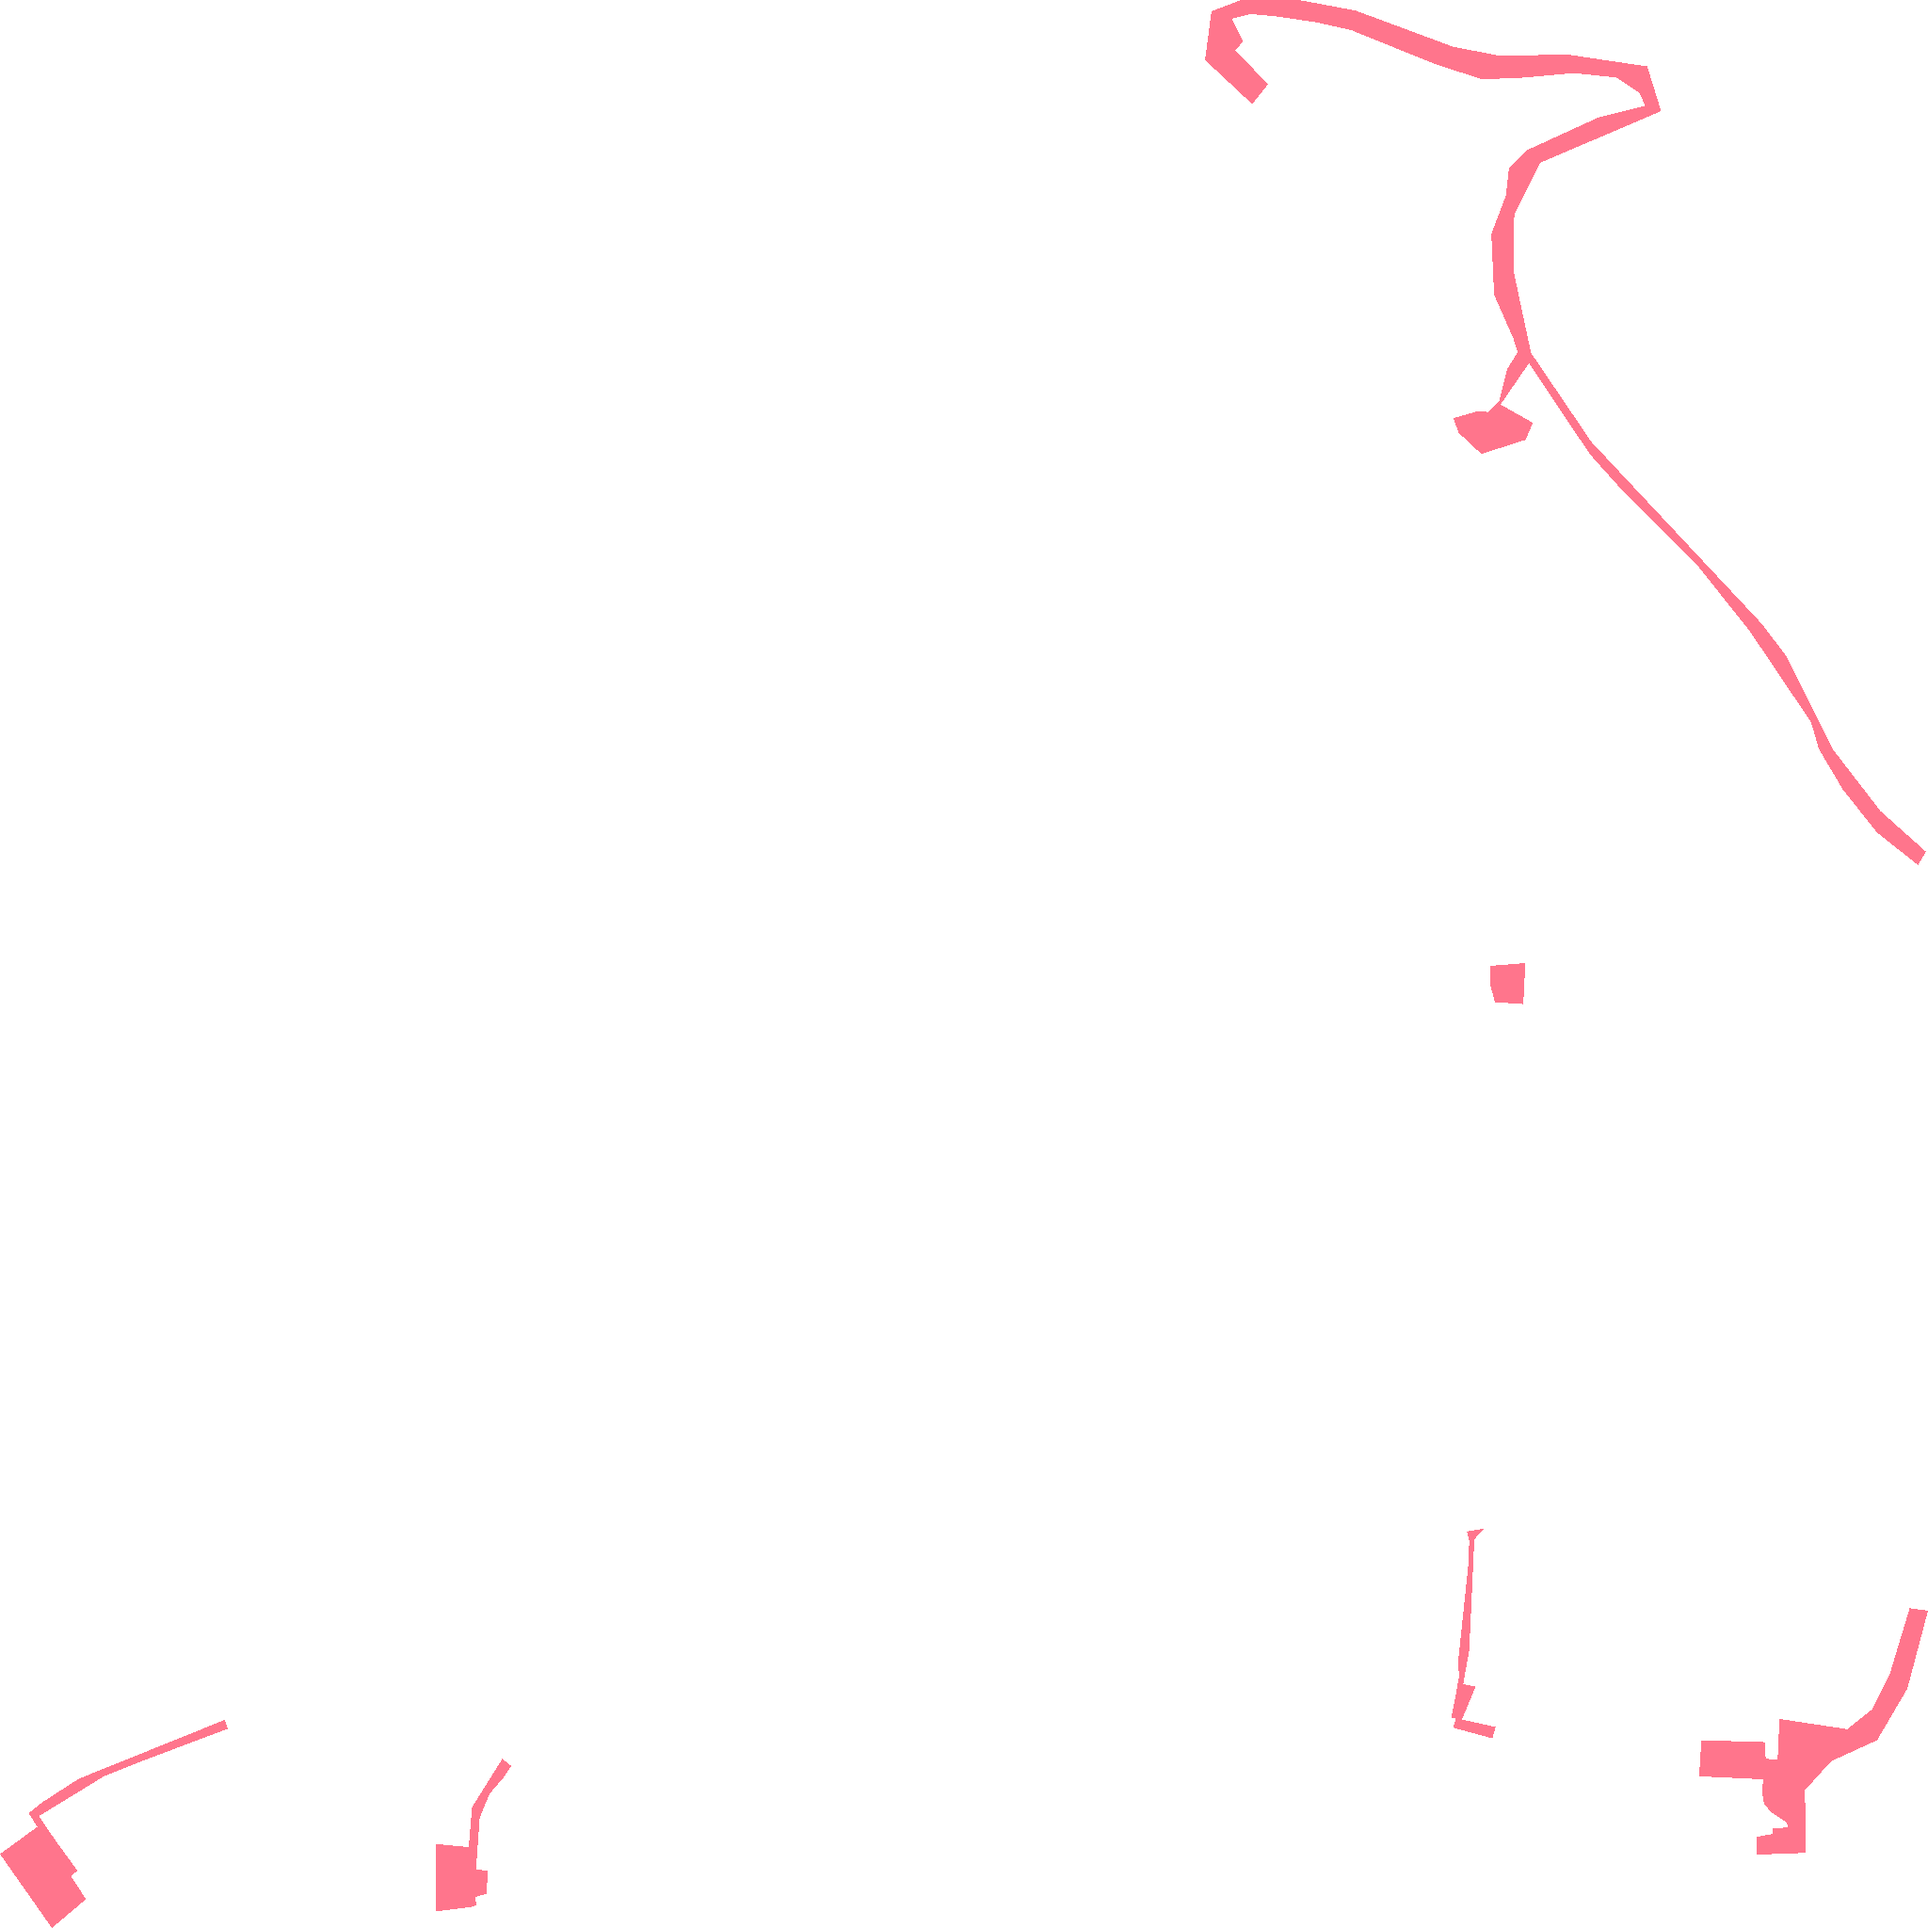
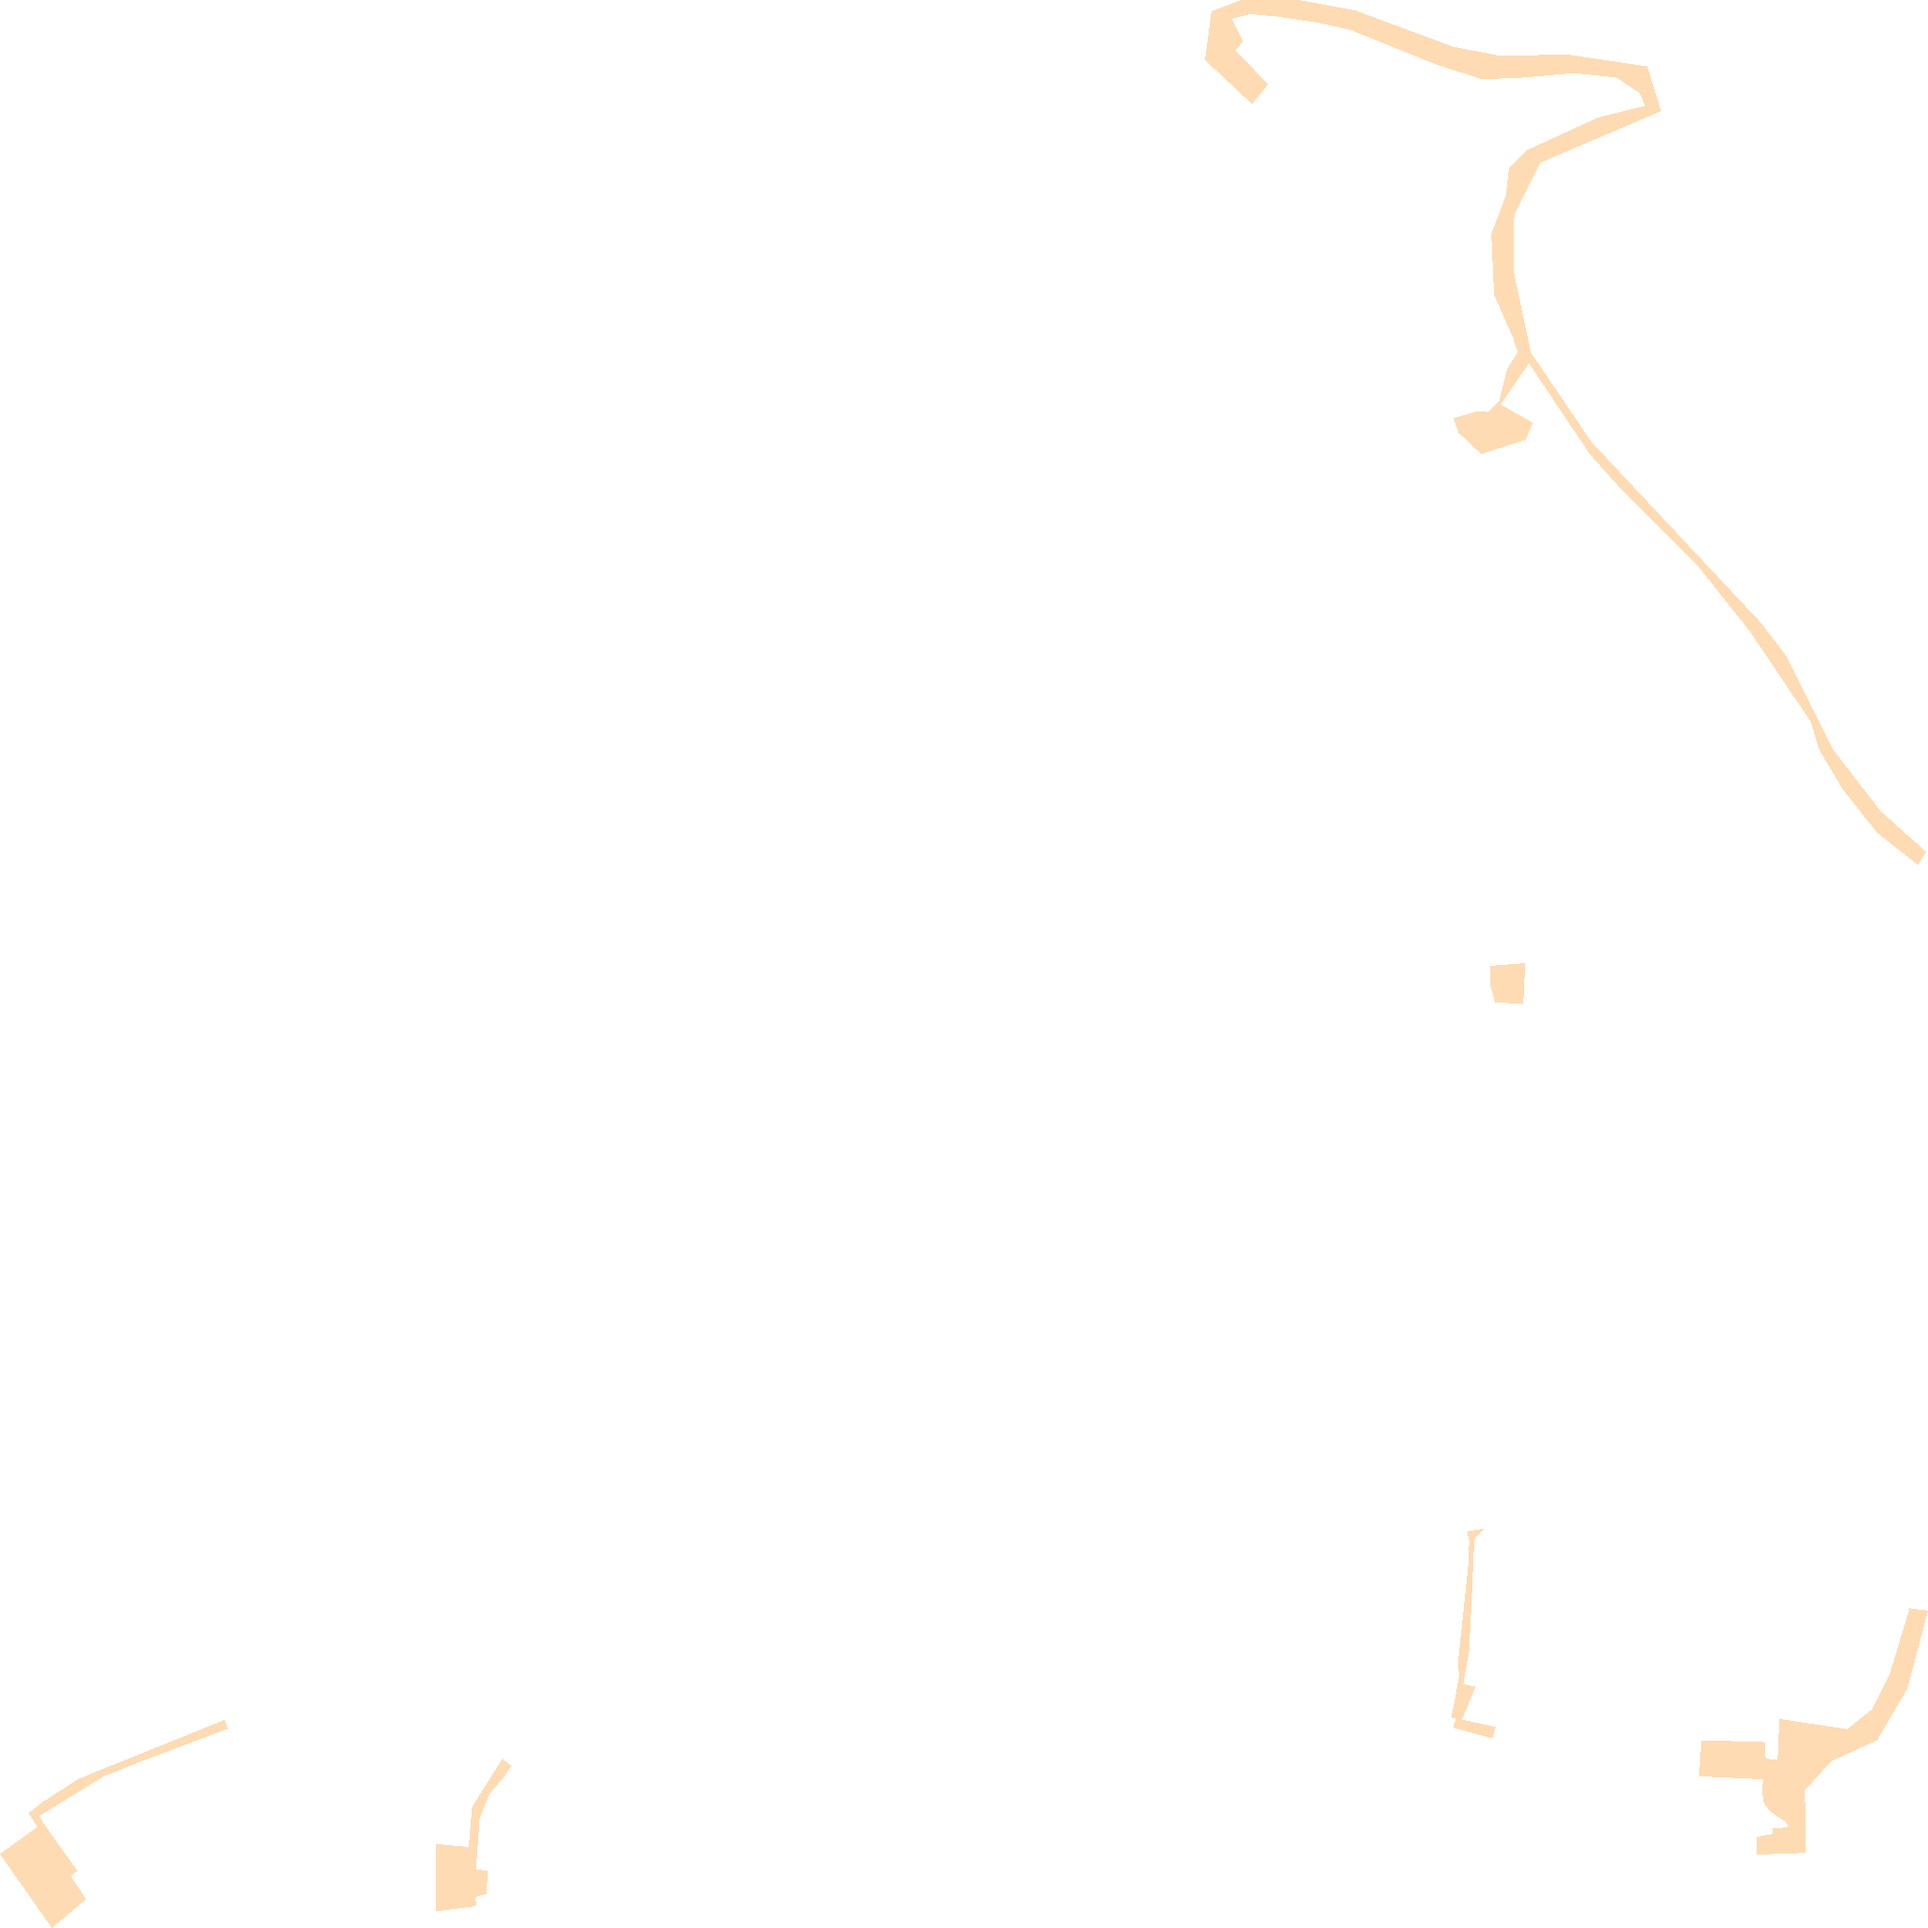
Karte p_622

diff --git a/p_622.html b/p_622.html
@@ -128,8 +128,9 @@
 <body>
     <div id="map"></div>
     <div id="legend">
-        <div><span style="display:inline-block; width:20px; height:10px; background:#FF7F00; margin-right:5px;"></span>Ausbauphase 1: Ausbau bei ausreichender Nachfrage</div>
+        <div><span style="display:inline-block; width:20px; height:10px; background:#FF7F00; margin-right:5px;"></span>Ausbauphase 1: Glasfasernetz vorhanden oder geplant</div>
         <div><span style="display:inline-block;width:20px; height:10px; background:#00143C; margin-right:5px;"></span>Ausbauphase 2: Interessenbekundung möglich</div>
+        <div><span style="display:inline-block;width:20px; height:10px; background:#FFC17D; margin-right:5px;"></span>Ausbauphase 3: Gefördertes Ausbaugebiet </div>
     </div>
     <script>
     const bounds = [[49.054520755, 8.939946759], [49.075293851, 8.972318272]];
